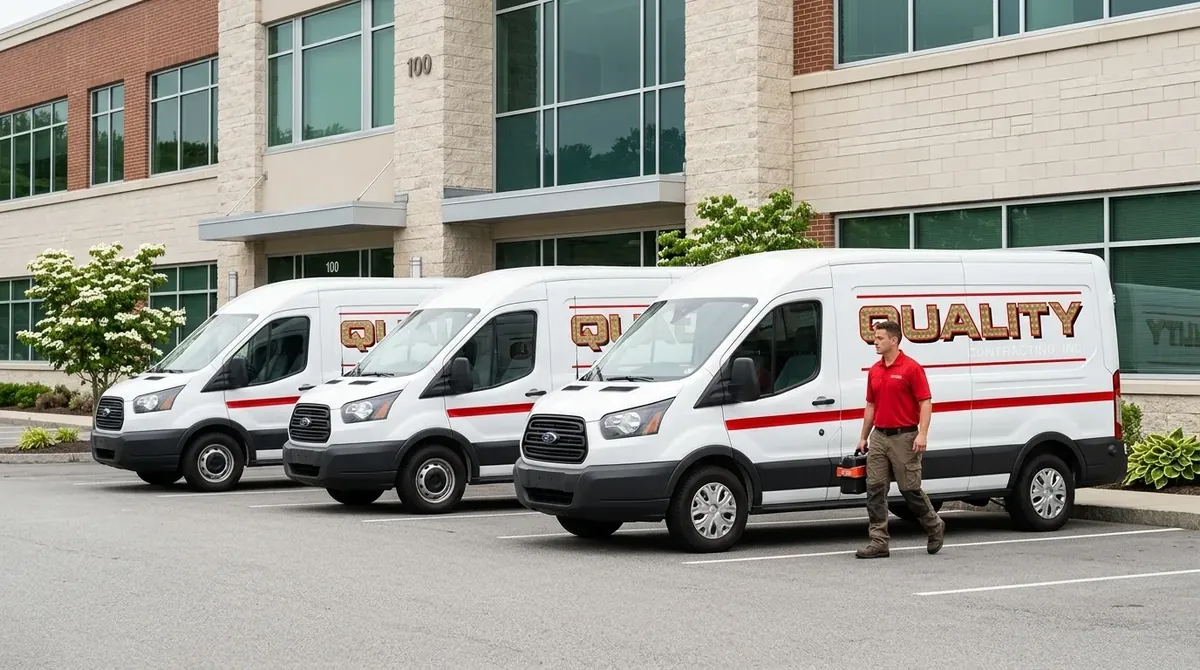
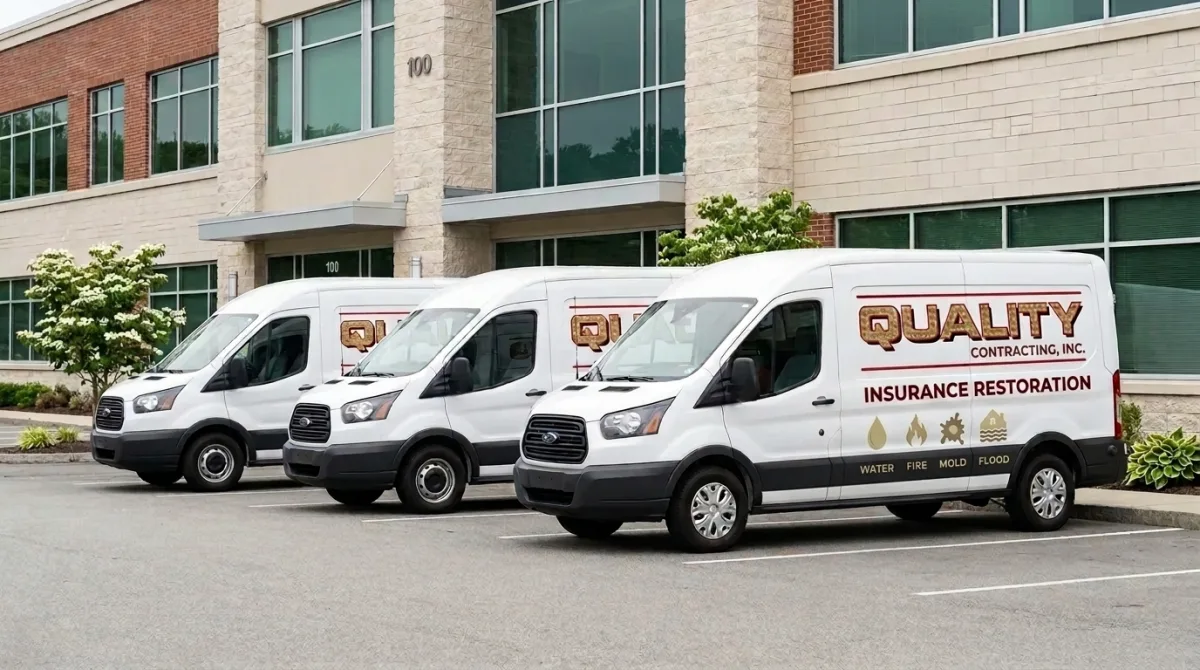
qci: Fran's website feedback round (08-19 email)
- header logo removed (name in type; van carries the brand)
- all free-estimate copy replaced with Request Service across components/content
- all dollar figures stripped from 12 content files (scope-based reframe, lint-gated)
- about: incorporated April 2001, meta corrected
- emergency page: six client-attested emergency services (capsule + card grid)
- graphical MA-CT-RI service-area map (Fran's image) replaces town-list-only view
- van hero regenerated: INSURANCE RESTORATION + WATER/FIRE/MOLD/FLOOD icon row,
  middle-van lettering cleaned, wall ghosting removed (all 4 webp derivatives)
- PAY HERE ported verbatim from qualitycontracting.us (Authorize.net Simple
  Checkout LinkId) into header + mobile nav + footer
- domain recorded: qualitycontracting.us; brand.ts/astro.config/llms/ai.txt
  https://None fixed; local /brand/hero.webp fallback replaces images.None

diff --git a/src/lib/brand.ts b/src/lib/brand.ts
@@ -8,7 +8,7 @@ export const brand = {
   shortName: "Quality Contracting, Inc.",
   legalName: "Quality Contracting, Inc.",
   domain: "",
-  canonicalUrl: "https://None",
+  canonicalUrl: "https://qualitycontracting.us",
   phone: "(508) 756-8800",
   phoneRaw: "+15087568800",
   email: "info@qualitycontracting.us",
@@ -26,7 +26,9 @@ export const brand = {
   lng: "-71.8358095",
   placeId: "",
   googleCid: "",
-  imagesBase: "https://images.None",
+  // No per-client images bucket provisioned — serve the brand hero fallback
+  // from the site itself (public/brand/hero.webp)
+  imagesBase: "",
   googleMapsApiKey: "",
   // Analytics — set post-scaffold (scripts/analytics_set.py / create_ga4.py); no-op if empty
   ga4MeasurementId: "",

diff --git a/src/content/services/mold-remediation.md b/src/content/services/mold-remediation.md
@@ -12,7 +12,7 @@ generated_at: "2026-07-28T14:56:37.534349+00:00"
 manual_override: false
 internal_links: ["/services/", "/contact/", "/blog/choosing-a-restoration-company/", "/blog/how-to-test-for-mold/", "/blog/signs-of-hidden-mold/"]
 breadcrumb: [{"name": "Home", "url": "/"}, {"name": "Services", "url": "/services/"}, {"name": "Mold Remediation"}]
-faq: [{"question": "Does homeowners insurance cover mold remediation?", "answer": "It depends on the cause: most standard homeowners policies cover mold remediation when it results directly from a covered sudden event, like a burst pipe or appliance leak, but many policies exclude mold from long-term seepage, flooding, or neglected maintenance \u2014 and mold sublimits (often $5,000\u2013$10,000) can apply even when coverage exists. Quality Contracting, Inc. works with all major insurance carriers and handles the claim documentation \u2014 moisture readings, photo records, written scope \u2014 so your adjuster has what they need to process the claim. Reviewing your specific policy's mold language before filing is always worth a quick call to your agent."}, {"question": "What's the difference between mold remediation and mold removal \u2014 and does the distinction matter?", "answer": "\"Mold removal\" implies eliminating all mold, which isn't possible \u2014 mold spores exist naturally in every indoor and outdoor environment. Remediation means returning indoor mold levels to a normal background concentration and eliminating the conditions that allowed abnormal growth. The distinction matters practically: a contractor who promises complete mold elimination is overstating what the work can achieve, and a remediation that doesn't address the underlying moisture source will fail regardless of what's applied to the surface."}, {"question": "How do I know the mold remediation actually worked?", "answer": "Post-remediation verification \u2014 either a visual clearance inspection or air sampling compared against an outdoor baseline \u2014 is the standard way to confirm the work was effective. Air samples taken inside the remediated area should show spore concentrations and species composition comparable to outdoor control samples. Without this step, there's no objective evidence the remediation succeeded, which can also create problems if you sell the property or file a future insurance claim."}, {"question": "Do I need to leave my home during mold remediation?", "answer": "For small, well-contained projects \u2014 a single bathroom wall, for example \u2014 temporary displacement may not be necessary if the work area can be fully isolated. For larger projects involving significant material removal, HEPA air scrubbing running continuously, or mold in HVAC-adjacent areas, staying elsewhere during active work is the more cautious choice. The remediation team will walk you through what's appropriate for your specific project before work begins."}, {"question": "How quickly does mold grow after a water leak, and does that affect what remediation involves?", "answer": "Under warm, humid conditions, mold can begin colonizing wet porous materials \u2014 drywall paper, insulation, wood \u2014 within 24 to 48 hours of a moisture event. The longer materials stay wet, the deeper the hyphal growth penetrates into the substrate, which affects whether surface cleaning is sufficient or whether physical removal is necessary. A leak that was dried within 24\u201348 hours may require only monitoring and treatment; the same leak left wet for a week or more typically requires material removal and is a more involved remediation scope."}]
+faq: [{"question": "Does homeowners insurance cover mold remediation?", "answer": "It depends on the cause: most standard homeowners policies cover mold remediation when it results directly from a covered sudden event, like a burst pipe or appliance leak, but many policies exclude mold from long-term seepage, flooding, or neglected maintenance \u2014 and mold sublimits can apply even when coverage exists. Quality Contracting, Inc. works with all major insurance carriers and handles the claim documentation \u2014 moisture readings, photo records, written scope \u2014 so your adjuster has what they need to process the claim. Reviewing your specific policy's mold language before filing is always worth a quick call to your agent."}, {"question": "What's the difference between mold remediation and mold removal \u2014 and does the distinction matter?", "answer": "\"Mold removal\" implies eliminating all mold, which isn't possible \u2014 mold spores exist naturally in every indoor and outdoor environment. Remediation means returning indoor mold levels to a normal background concentration and eliminating the conditions that allowed abnormal growth. The distinction matters practically: a contractor who promises complete mold elimination is overstating what the work can achieve, and a remediation that doesn't address the underlying moisture source will fail regardless of what's applied to the surface."}, {"question": "How do I know the mold remediation actually worked?", "answer": "Post-remediation verification \u2014 either a visual clearance inspection or air sampling compared against an outdoor baseline \u2014 is the standard way to confirm the work was effective. Air samples taken inside the remediated area should show spore concentrations and species composition comparable to outdoor control samples. Without this step, there's no objective evidence the remediation succeeded, which can also create problems if you sell the property or file a future insurance claim."}, {"question": "Do I need to leave my home during mold remediation?", "answer": "For small, well-contained projects \u2014 a single bathroom wall, for example \u2014 temporary displacement may not be necessary if the work area can be fully isolated. For larger projects involving significant material removal, HEPA air scrubbing running continuously, or mold in HVAC-adjacent areas, staying elsewhere during active work is the more cautious choice. The remediation team will walk you through what's appropriate for your specific project before work begins."}, {"question": "How quickly does mold grow after a water leak, and does that affect what remediation involves?", "answer": "Under warm, humid conditions, mold can begin colonizing wet porous materials \u2014 drywall paper, insulation, wood \u2014 within 24 to 48 hours of a moisture event. The longer materials stay wet, the deeper the hyphal growth penetrates into the substrate, which affects whether surface cleaning is sufficient or whether physical removal is necessary. A leak that was dried within 24\u201348 hours may require only monitoring and treatment; the same leak left wet for a week or more typically requires material removal and is a more involved remediation scope."}]
 service_slug: "mold-remediation"
 service_display: "Mold Remediation"
 rendered: true
@@ -51,17 +51,7 @@ Finally, clearance testing matters. Remediation without a post-project air sampl
 
 ## What does mold remediation cost?
 
-Typical costs run a wide range depending on the size of the affected area, the materials involved, and whether the underlying moisture source requires structural repair. Most homeowners pay somewhere in the ranges below — these are industry-typical figures, not a quote from Quality Contracting, Inc.
-
-| Scenario | Typical range |
-|---|---|
-| Single bathroom or small surface area (< 10 sq ft) | $500 – $1,500 |
-| Single room, contained growth (10–50 sq ft) | $1,500 – $4,000 |
-| Multiple rooms or partial floor system | $4,000 – $10,000 |
-| Crawlspace remediation | $3,000 – $8,000 |
-| Whole-structure or attic remediation | $8,000 – $30,000+ |
-
-Every loss is different, and Quality Contracting, Inc. provides a written scope of work before any project begins so there are no surprises. Homeowners insurance typically covers mold remediation when it results directly from a covered peril — a sudden pipe burst, for example — but may exclude mold that developed from long-term neglected moisture or flooding in certain policy types. Reviewing your policy's mold sublimit before filing is worth the call to your agent.
+Cost depends on the documented scope of work. The size of the affected area, the materials involved, and whether the underlying moisture source requires structural repair all affect what the job requires. We produce a line-item scope with photos and moisture readings formatted for insurance carriers so your adjuster has a clear, complete record. For insured losses we bill the carrier directly. Call us at (508) 756-8800 and we will walk through the scope with you before any work begins so there are no surprises. Homeowners insurance typically covers mold remediation when it results directly from a covered peril — a sudden pipe burst, for example — but may exclude mold that developed from long-term neglected moisture or flooding in certain policy types. Reviewing your policy's mold sublimit before filing is worth the call to your agent.
 
 ## Seasonal and regional considerations
 

diff --git a/src/content/pages/about.md b/src/content/pages/about.md
@@ -2,7 +2,7 @@
 archetype: "about"
 title: "About Quality Contracting, Inc. | Auburn Restoration Company"
 h1: "About Quality Contracting, Inc."
-meta_description: "Quality Contracting, Inc. Has served Auburn since. Meet our restoration team. Locally owned."
+meta_description: "Quality Contracting, Inc., serving South and Central New England from Auburn since 2001. Meet our restoration team. Locally owned."
 primary_keyword: "quality contracting, inc. auburn"
 secondary_keywords: ["local restoration company", "restoration industry standards", "licensed restoration contractor"]
 search_intent: "navigational_trust"
@@ -12,7 +12,7 @@ generated_at: "2026-07-28T15:04:18.068276+00:00"
 manual_override: false
 internal_links: ["/", "/services/", "/contact/"]
 breadcrumb: [{"name": "Home", "url": "/"}, {"name": "About"}]
-faq: [{"question": "How long has Quality Contracting, Inc. been in business?", "answer": "Quality Contracting, Inc. has been operating in central Massachusetts for a number of years, based out of Auburn. For specific founding details, feel free to call the office at (508) 756-8800 \u2014 the team is happy to talk through the company's history directly."}, {"question": "What areas does Quality Contracting, Inc. serve?", "answer": "The primary service area covers Auburn, Worcester, Shrewsbury, and the corridor east toward Boston — Westborough, Southborough, Hopkinton, Framingham, Natick, Wellesley, Needham, Newton, and Weston — with crews responding across a 50 mile radius of Auburn. If you're unsure whether your location falls within the service area, a quick call to (508) 756-8800 will get you a straight answer."}, {"question": "Is Quality Contracting, Inc. certified for mold and water damage work?", "answer": "The company follows IICRC industry standards for water damage and mold remediation work, which set the technical benchmarks for drying protocols, containment, and documentation. For work in homes built before 1978, EPA lead-safe practices apply to any demolition or reconstruction that disturbs painted surfaces \u2014 something that comes up frequently given the age of housing stock across central Massachusetts."}]
+faq: [{"question": "How long has Quality Contracting, Inc. been in business?", "answer": "Quality Contracting, Inc. has been incorporated since April 2001 and operates out of Auburn, Massachusetts, serving South and Central New England. That is more than two decades of restoration and reconstruction work in the region."}, {"question": "What areas does Quality Contracting, Inc. serve?", "answer": "The primary service area covers Auburn, Worcester, Shrewsbury, and the corridor east toward Boston — Westborough, Southborough, Hopkinton, Framingham, Natick, Wellesley, Needham, Newton, and Weston — with crews responding across a 50 mile radius of Auburn. If you're unsure whether your location falls within the service area, a quick call to (508) 756-8800 will get you a straight answer."}, {"question": "Is Quality Contracting, Inc. certified for mold and water damage work?", "answer": "The company follows IICRC industry standards for water damage and mold remediation work, which set the technical benchmarks for drying protocols, containment, and documentation. For work in homes built before 1978, EPA lead-safe practices apply to any demolition or reconstruction that disturbs painted surfaces \u2014 something that comes up frequently given the age of housing stock across central Massachusetts."}]
 rendered: true
 ---
 Quality Contracting, Inc. has been serving homeowners and property managers in central Massachusetts from its base in Auburn — a town that sits almost exactly at the geographic center of the state, which makes it a natural hub for responding to losses across Worcester County and beyond. The company was built around restoration work because that's where the need is most acute: a burst pipe at 2 a.m., a kitchen fire, a basement that's been quietly growing mold behind the drywall for months. These aren't projects people plan for, and the contractor they call needs to know exactly what they're doing.

diff --git a/src/content/blog/how-to-test-for-mold.md b/src/content/blog/how-to-test-for-mold.md
@@ -21,7 +21,7 @@ If you've spotted a dark stain on the ceiling, caught a musty smell after a base
 
 ## What DIY Mold Test Kits Actually Do (and Don't Do)
 
-You've probably seen the petri-dish kits at hardware stores — typically $10–$50 — or the swab-and-mail-in versions that cost $30–$150 once you add the lab fee. Both work on the same basic principle: collect a sample, let mold spores grow or send the sample to a lab, and get a result.
+You've probably seen the petri-dish kits at hardware stores, or the swab-and-mail-in versions that require a separate lab fee. Both work on the same basic principle: collect a sample, let mold spores grow or send the sample to a lab, and get a result.
 
 Here's what they can tell you:
 
@@ -49,7 +49,7 @@ A certified mold inspector does several things a kit can't replicate:
 4. **Surface sampling** — Tape lifts or swabs from suspect areas go to an accredited lab, usually returning results in 24–72 hours.
 5. **Written report** — You receive a documented assessment that identifies affected areas, species found, and recommended remediation scope. This report is often required by insurance carriers and is essential if you're buying or selling a home.
 
-The cost for a professional inspection in central Massachusetts typically runs $300–$600 depending on home size and the number of samples collected. That's more than a kit, but the information you get is categorically different.
+A professional inspection gives you information that is categorically different from what a kit provides. The cost depends on the documented scope, including home size and the number of samples needed.
 
 ## When a DIY Kit Is Probably Enough
 
@@ -76,7 +76,7 @@ Call a professional if any of the following apply:
 
 If the inspection confirms mold, the next step is remediation — the physical removal of contaminated materials and treatment of affected surfaces. This is not a bleach-and-paint job. Proper remediation involves containment barriers to prevent cross-contamination, negative air pressure machines with HEPA filtration, controlled demolition of unsalvageable drywall or insulation, antimicrobial treatment, and post-remediation clearance testing to verify the work is complete.
 
-The scope depends entirely on what the inspection found. A 2-square-foot stain on a bathroom wall is a different project than mold colonizing 400 square feet of basement framing after a sump pump failure. That's why the inspection report matters — it defines the scope, which defines the cost, which is what your insurance carrier needs to process a claim.
+The scope depends entirely on what the inspection found. A 2-square-foot stain on a bathroom wall is a different project than mold colonizing 400 square feet of basement framing after a sump pump failure. That's why the inspection report matters. We produce a line-item scope with photos and moisture readings formatted for insurance carriers. For insured losses we bill the carrier directly.
 
 In Auburn and the surrounding MetroWest and Worcester County area, older housing stock — triple-deckers, cape-style homes with unvented crawl spaces, and 1960s–1980s ranch homes with fiberglass-insulated basements — tends to hold moisture longer than newer construction. If your home falls into any of those categories and you've had any water intrusion, the threshold for getting a professional inspection should be lower, not higher.
 

diff --git a/src/content/blog/does-homeowners-insurance-cover-water-damage.md b/src/content/blog/does-homeowners-insurance-cover-water-damage.md
@@ -49,7 +49,7 @@ One thing Massachusetts homeowners run into: ice dam damage. Because ice dams ar
 
 Before you call your adjuster, spend 15 minutes with your declarations page and the exclusions section. You're looking for three things:
 
-1. **Your deductible.** If the damage is $3,200 and your deductible is $2,500, filing a claim may not be worth it — and a claim on your record can raise your premium.
+1. **Your deductible.** Cost depends on the documented scope; we produce a line-item scope with photos and moisture readings formatted for insurance carriers. If the repair cost is only modestly above your deductible, filing a claim may not be worth it, and a claim on your record can raise your premium.
 2. **The exclusions list.** Look for the words "seepage," "leakage," "continuous or repeated," and "flood." These are the phrases insurers use to deny gradual-damage claims.
 3. **Any endorsements you added.** Water backup coverage, equipment breakdown coverage, and service line coverage are common add-ons that change what's covered. If you're not sure what you bought, call your agent — not your adjuster — and ask.
 
@@ -87,7 +87,7 @@ The drying and reconstruction phase runs parallel to the claims process. Structu
 
 Water is deceptive. A stain on the ceiling might represent a few gallons of standing water inside a wall cavity. Hardwood floors that look fine on day one can be cupped and buckled by day three. Mold can begin to colonize wet cellulose materials — drywall paper, wood framing, insulation — within 24 to 48 hours in warm conditions.
 
-If you're dealing with more than a small, contained spill, a professional moisture assessment is worth doing even if you're still sorting out insurance. Thermal imaging cameras and pin-type moisture meters can find wet areas behind walls and under floors that look dry to the eye. Knowing the true extent of the damage before you negotiate a claim settlement protects you from closing out a claim and then discovering hidden rot or mold six months later.
+If you're dealing with more than a small, contained spill, a professional moisture assessment is worth doing even if you're still sorting out insurance. Thermal imaging cameras and pin-type moisture meters can find wet areas behind walls and under floors that look dry to the eye. Cost depends on the documented scope; we produce a line-item scope with photos and moisture readings formatted for insurance carriers, and for insured losses we bill the carrier directly. Knowing the true extent of the damage before you negotiate a claim settlement protects you from closing out a claim and then discovering hidden rot or mold six months later.
 
 ---
 

diff --git a/src/content/services/contents-restoration.md b/src/content/services/contents-restoration.md
@@ -55,18 +55,7 @@ Insurance adjusters also look for a clear line between pre-loss condition and lo
 
 ## What does contents restoration and storage cost?
 
-Typical costs for contents restoration and storage vary considerably based on the volume of affected items, the type of damage, and how quickly the pack-out begins. Most homeowners pay somewhere in the ranges below for industry-typical scenarios — these are not quotes from Quality Contracting, Inc., but representative figures to help you understand the scope of the work.
-
-| Scenario | Typical industry range |
-|---|---|
-| Single room, smoke-affected soft goods only | $800 – $2,500 |
-| Whole-house pack-out after fire (contents cleaning + storage) | $8,000 – $25,000 |
-| Water damage pack-out, single floor (no mold) | $3,500 – $9,000 |
-| Document and photo recovery (freeze-drying, small volume) | $500 – $2,000 |
-| Electronics assessment and restoration (per unit) | $150 – $600 |
-| Odor treatment (ozone/hydroxyl, whole-house contents) | $1,200 – $4,000 |
-
-Every loss is different, and Quality Contracting, Inc. provides a written scope of work before any restoration begins so there are no surprises. Homeowners insurance typically covers contents restoration and storage when the loss is caused by a covered peril — fire, certain water events, and storm damage are the most common — and the itemized inventory documentation generated during pack-out is exactly what adjusters need to process that portion of the claim.
+Cost depends on the documented scope of the loss. The volume of affected items, the type of damage, and how quickly the pack-out begins all shape what the work involves. We produce a line-item scope with photos and moisture readings formatted for insurance carriers. For insured losses we bill the carrier directly. Homeowners insurance typically covers contents restoration and storage when the loss is caused by a covered peril — fire, certain water events, and storm damage are the most common — and the itemized inventory documentation generated during pack-out is exactly what adjusters need to process that portion of the claim. Quality Contracting, Inc. provides a written scope of work before any restoration begins so there are no surprises.
 
 ## Seasonal and regional considerations
 

diff --git a/src/content/services/fire-damage-restoration.md b/src/content/services/fire-damage-restoration.md
@@ -49,18 +49,7 @@ Finally, HVAC systems are frequently overlooked. Smoke circulates through ductwo
 
 ## What does fire damage restoration cost?
 
-Typical costs for residential fire and smoke restoration vary widely based on the size of the affected area, the intensity of the fire, and the types of materials involved. Most homeowners pay somewhere between $3,000 and $30,000 for fire cleanup and structural repair, with total losses running significantly higher. The table below reflects typical industry ranges — not quotes from Quality Contracting, Inc.
-
-| Scenario | Typical industry range |
-|---|---|
-| Single room, smoke damage only | $2,500 – $6,000 |
-| Kitchen fire, moderate structural damage | $8,000 – $20,000 |
-| Whole-floor smoke migration, no structural loss | $6,000 – $15,000 |
-| Partial structural loss (one room or area) | $15,000 – $40,000 |
-| Whole-home fire with reconstruction required | $40,000 – $150,000+ |
-| Contents pack-out and cleaning (per household) | $3,000 – $12,000 |
-
-Every fire loss is different — scope, materials, and extent of hidden damage all affect the final number. Quality Contracting, Inc. provides a written scope of work before any work begins so there are no surprises. Standard homeowners insurance policies typically cover sudden and accidental fire damage including cleanup, structural repair, and contents restoration, subject to your deductible and policy limits.
+Cost depends on the documented scope of work. Every fire loss is different — the size of the affected area, the intensity of the fire, the types of materials involved, and the extent of hidden smoke migration all affect the final scope. Quality Contracting, Inc. produces a line-item scope with photos and moisture readings formatted for insurance carriers so the adjuster has everything needed to process the claim accurately. For insured losses we bill the carrier directly. Quality Contracting, Inc. provides a written scope of work before any work begins so there are no surprises. Standard homeowners insurance policies typically cover sudden and accidental fire damage including cleanup, structural repair, and contents restoration, subject to your deductible and policy limits.
 
 ## Seasonal and regional considerations
 

diff --git a/src/content/services/crawl-space-encapsulation.md b/src/content/services/crawl-space-encapsulation.md
@@ -53,18 +53,7 @@ Finally, dehumidifier sizing matters. A unit rated for 1,000 sq ft placed in a 2
 
 ## What does crawl space encapsulation cost?
 
-Typical costs for crawl space encapsulation depend on the size of the space, existing conditions, and what components the system requires. Most homeowners pay somewhere in the ranges below — these are industry-typical figures, not a quote from Quality Contracting, Inc.
-
-| Scenario | Typical range |
-|---|---|
-| Small crawl space (under 800 sq ft), liner only | $1,500 – $3,000 |
-| Mid-size crawl space (800–1,500 sq ft), liner + dehumidifier | $3,000 – $6,000 |
-| Large crawl space (1,500–2,500 sq ft), full system | $5,500 – $10,000 |
-| Add: insulation removal and disposal | $500 – $1,500 |
-| Add: sump pit and sealed cover | $800 – $2,000 |
-| Add: mold remediation on framing prior to encapsulation | $1,200 – $4,500 |
-
-Every crawl space is different, and Quality Contracting, Inc. provides a written scope of work before any work begins so there are no surprises. Homeowners insurance typically does not cover encapsulation as a preventive upgrade, but it may cover related work — liner replacement, mold remediation, or structural drying — when the damage is tied to a covered sudden loss like a burst pipe or storm-driven water intrusion. Documentation of cause and scope is key to a successful claim.
+Cost depends on the documented scope of work. Every job is different based on the size of the space, existing conditions, and what components the system requires. We produce a line-item scope with photos and moisture readings formatted for insurance carriers so the work is clearly supported from the start. For insured losses we bill the carrier directly. Quality Contracting, Inc. provides a written scope of work before any work begins so there are no surprises. Homeowners insurance typically does not cover encapsulation as a preventive upgrade, but it may cover related work — liner replacement, mold remediation, or structural drying — when the damage is tied to a covered sudden loss like a burst pipe or storm-driven water intrusion. Documentation of cause and scope is key to a successful claim.
 
 ## Seasonal and regional considerations
 

diff --git a/src/content/services/water-damage-restoration.md b/src/content/services/water-damage-restoration.md
@@ -49,18 +49,7 @@ For Category 2 and Category 3 losses, proper containment and antimicrobial treat
 
 ## What does Water Damage Restoration cost?
 
-Typical costs vary significantly based on water category, affected square footage, materials involved, and how quickly mitigation begins. Most homeowners pay somewhere between $1,500 and $8,000 for residential water mitigation, though large-loss events — finished basements, multi-story pipe bursts, or prolonged leaks discovered late — can run higher. The figures below reflect typical industry ranges, not quotes from Quality Contracting, Inc.
-
-| Scenario | Typical industry range |
-|---|---|
-| Single room, clean water (Category 1) | $1,200 – $3,500 |
-| Multi-room, clean water with subfloor involvement | $3,000 – $6,500 |
-| Category 2 loss (appliance overflow, gray water) | $2,500 – $7,000 |
-| Category 3 loss (sewage, floodwater) | $4,000 – $12,000+ |
-| Finished basement, partial flooding | $3,500 – $9,000 |
-| Crawl space water intrusion | $1,500 – $5,000 |
-
-Every loss is different, and Quality Contracting, Inc. provides a written scope before work begins so there are no surprises. Standard homeowners insurance typically covers sudden and accidental water damage — a burst pipe, appliance failure, or roof leak — but generally excludes gradual leaks and ground-level flooding, which requires separate flood insurance.
+Cost depends on the documented scope of loss. Water category, affected square footage, materials involved, and how quickly mitigation begins all affect what the scope includes. We produce a line-item scope with photos and moisture readings formatted for insurance carriers. For insured losses we bill the carrier directly. Standard homeowners insurance typically covers sudden and accidental water damage — a burst pipe, appliance failure, or roof leak — but generally excludes gradual leaks and ground-level flooding, which requires separate flood insurance.
 
 ## Seasonal and regional considerations
 

diff --git a/src/content/services/air-duct-cleaning.md b/src/content/services/air-duct-cleaning.md
@@ -51,16 +51,7 @@ Finally, air duct sanitization is only effective after thorough mechanical clean
 
 ## What does air duct cleaning cost?
 
-Typical costs for residential duct cleaning run $300–$1,000 for a standard single-system home, with the range widening significantly based on system size, accessibility, contamination level, and whether sanitization or dryer vent service is included. Most homeowners pay in the $400–$700 range for a straightforward forced-air system with no microbial involvement. Every loss and every home is different — Quality Contracting, Inc. provides a written scope before any work begins so there are no surprises.
-
-| Scenario | Typical range |
-|---|---|
-| Single-system home, standard cleaning (10–15 registers) | $300 – $600 |
-| Dual-system home or large square footage | $550 – $1,000 |
-| Duct cleaning + dryer vent service | $400 – $750 |
-| Duct cleaning + air duct sanitization (antimicrobial application) | $500 – $950 |
-| Post-renovation duct cleaning (construction debris present) | $600 – $1,200 |
-| Mold-involved duct system (remediation scope required) | $1,500 – $4,000+ |
+Cost depends on the documented scope of work. Every home is different, and factors like system size, number of registers, accessibility, contamination level, and whether sanitization or dryer vent service is needed all affect what a job requires. We produce a line-item scope with photos and moisture readings formatted for insurance carriers before any work begins, so there are no surprises. For insured losses, we bill the carrier directly.
 
 Homeowners insurance typically does not cover routine duct cleaning, but it may cover duct cleaning and sanitization when it is part of a documented water damage or mold remediation claim — for example, when a duct system is contaminated following a roof leak or HVAC condensate overflow. Quality Contracting, Inc. works with all major insurance carriers and handles claim documentation when coverage applies.
 

diff --git a/src/content/services/storm-damage-restoration.md b/src/content/services/storm-damage-restoration.md
@@ -49,18 +49,7 @@ Another common gap: failing to identify secondary structural damage. A tree impa
 
 ## What does Storm Damage Restoration cost?
 
-Typical costs vary significantly based on storm type, the size of the affected area, and how long the structure was exposed before stabilization. Most homeowners pay somewhere between $3,000 and $25,000 for storm damage restoration when combining emergency services, drying, and reconstruction — but losses involving major structural damage or prolonged water intrusion can run higher. The table below reflects typical industry ranges by scenario.
-
-| Scenario | Typical range |
-|---|---|
-| Emergency tarping and board-up only | $400 – $1,500 |
-| Minor roof damage with limited water intrusion | $2,500 – $6,000 |
-| Tree impact with roof penetration and attic wetting | $6,000 – $18,000 |
-| Siding loss with wall cavity moisture intrusion | $4,000 – $12,000 |
-| Significant structural damage requiring framing repair | $15,000 – $40,000+ |
-| Full storm damage restoration (multiple systems affected) | $10,000 – $35,000 |
-
-Every loss is different, and Quality Contracting, Inc. provides a written scope of work before any restoration begins so there are no surprises. Homeowners insurance typically covers sudden storm damage to the structure — wind, hail, fallen trees — though flood-origin damage usually requires a separate flood policy.
+Cost depends on the documented scope of loss. What was hit, how many systems were affected, and how long the structure stayed open to the weather all shape the scope. We produce a line-item scope with photos and moisture readings formatted for insurance carriers. For insured losses we bill the carrier directly. Homeowners insurance typically covers sudden storm damage to the structure — wind, hail, fallen trees — though flood-origin damage usually requires a separate flood policy.
 
 ## Seasonal and regional considerations
 

diff --git a/src/content/services/sewage-cleanup.md b/src/content/services/sewage-cleanup.md
@@ -47,17 +47,7 @@ Older homes in the Auburn and Worcester area sometimes have clay or cast-iron la
 
 ## What does sewage cleanup and sanitization cost?
 
-Typical costs vary significantly based on the volume of sewage, the size of the affected area, and how much finished material needs to be removed. Most homeowners pay somewhere in the following ranges for industry-typical losses — these are general benchmarks, not quotes, and every loss is different; Quality Contracting, Inc. provides a written scope of work before any work begins.
-
-| Scenario | Typical industry range |
-|---|---|
-| Single bathroom, minor backup, no material removal | $500 – $1,500 |
-| Basement floor drain backup, unfinished space | $1,500 – $4,000 |
-| Finished basement, partial drywall and flooring removal | $4,000 – $9,000 |
-| Multi-room spread, significant structural material removal | $8,000 – $20,000+ |
-| Septic overflow affecting crawlspace or exterior soil | $3,000 – $12,000 |
-
-Homeowners insurance typically covers sudden and accidental sewer or drain backups when the policy includes a sewer backup rider — standard HO-3 policies often exclude this damage by default, so coverage depends on your specific endorsements. Documenting the loss thoroughly from the start is the single most important thing you can do to protect your claim.
+Cost depends on the documented scope of the loss. The volume of sewage, the size of the affected area, and how much finished material needs to be removed all affect the scope. We produce a line-item scope with photos and moisture readings formatted for insurance carriers. For insured losses we bill the carrier directly. Call us and we will walk you through the process for your specific situation.
 
 ## Seasonal and regional considerations
 
